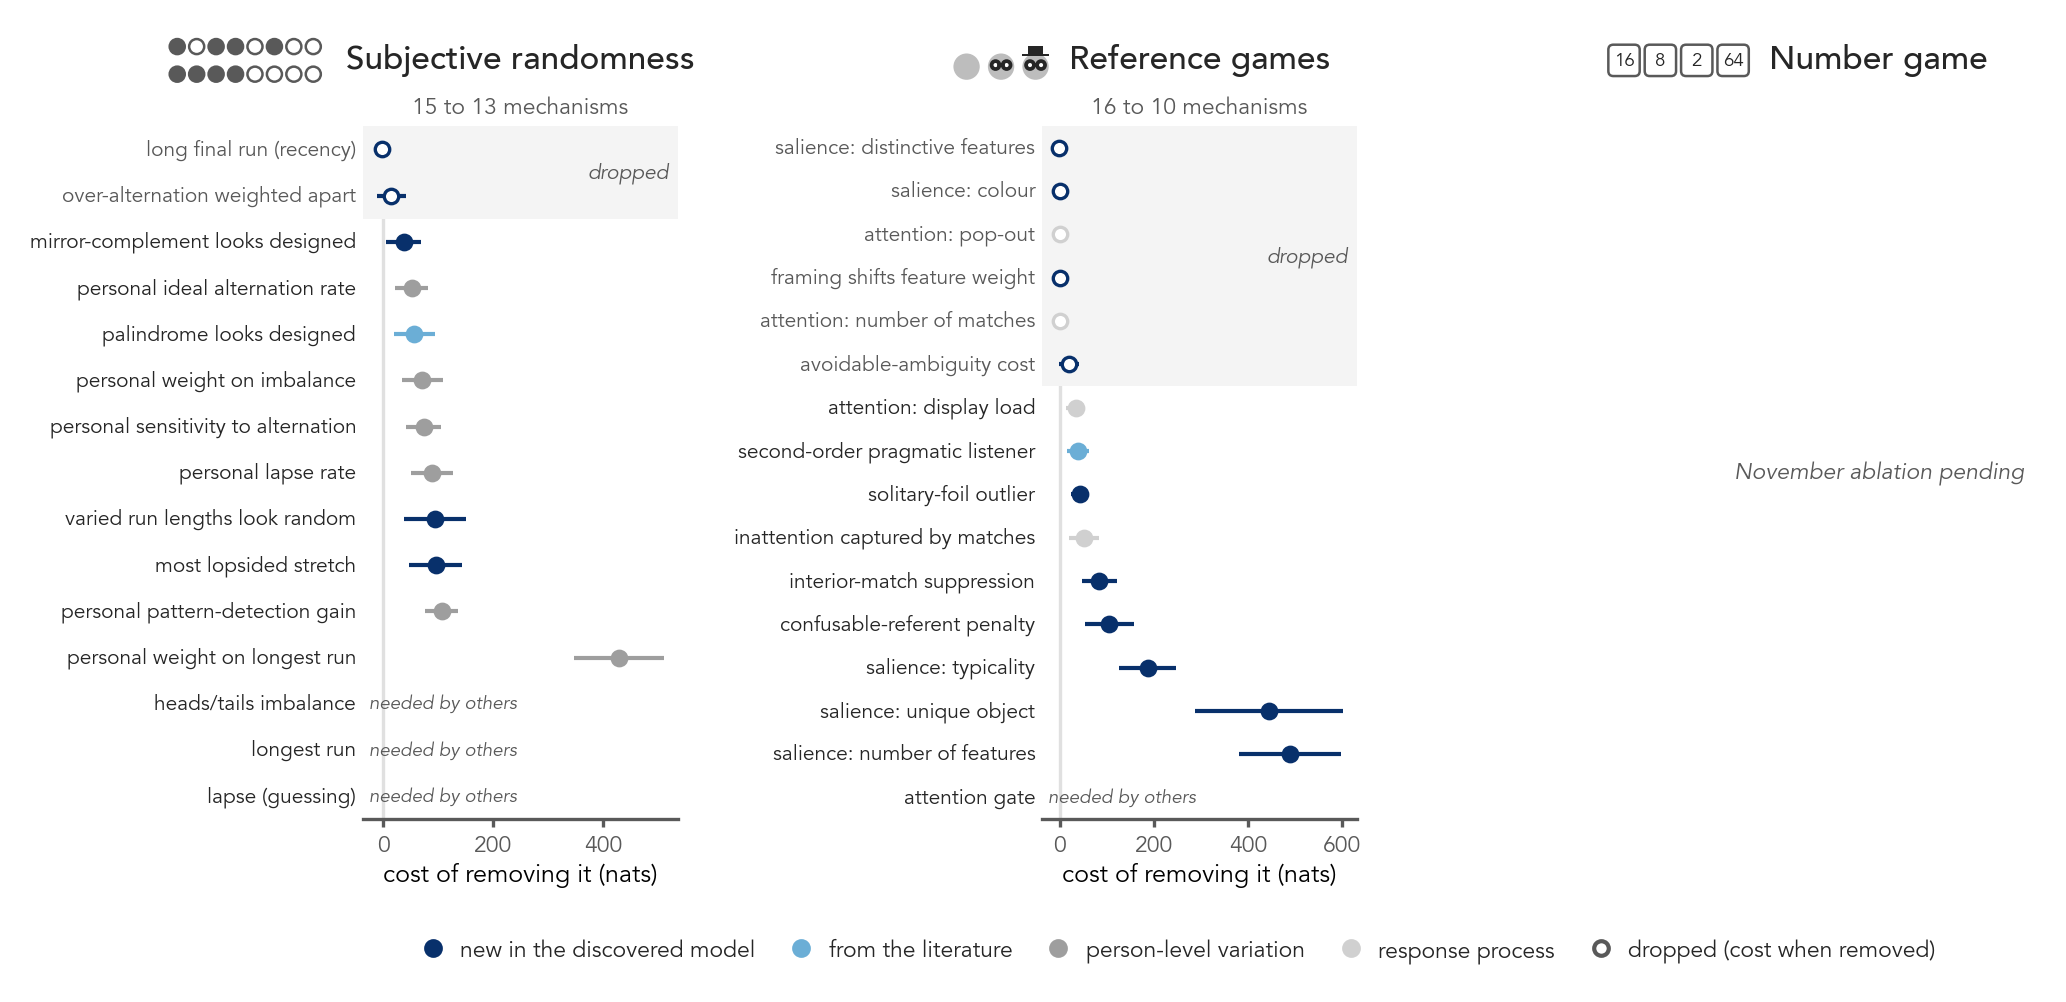
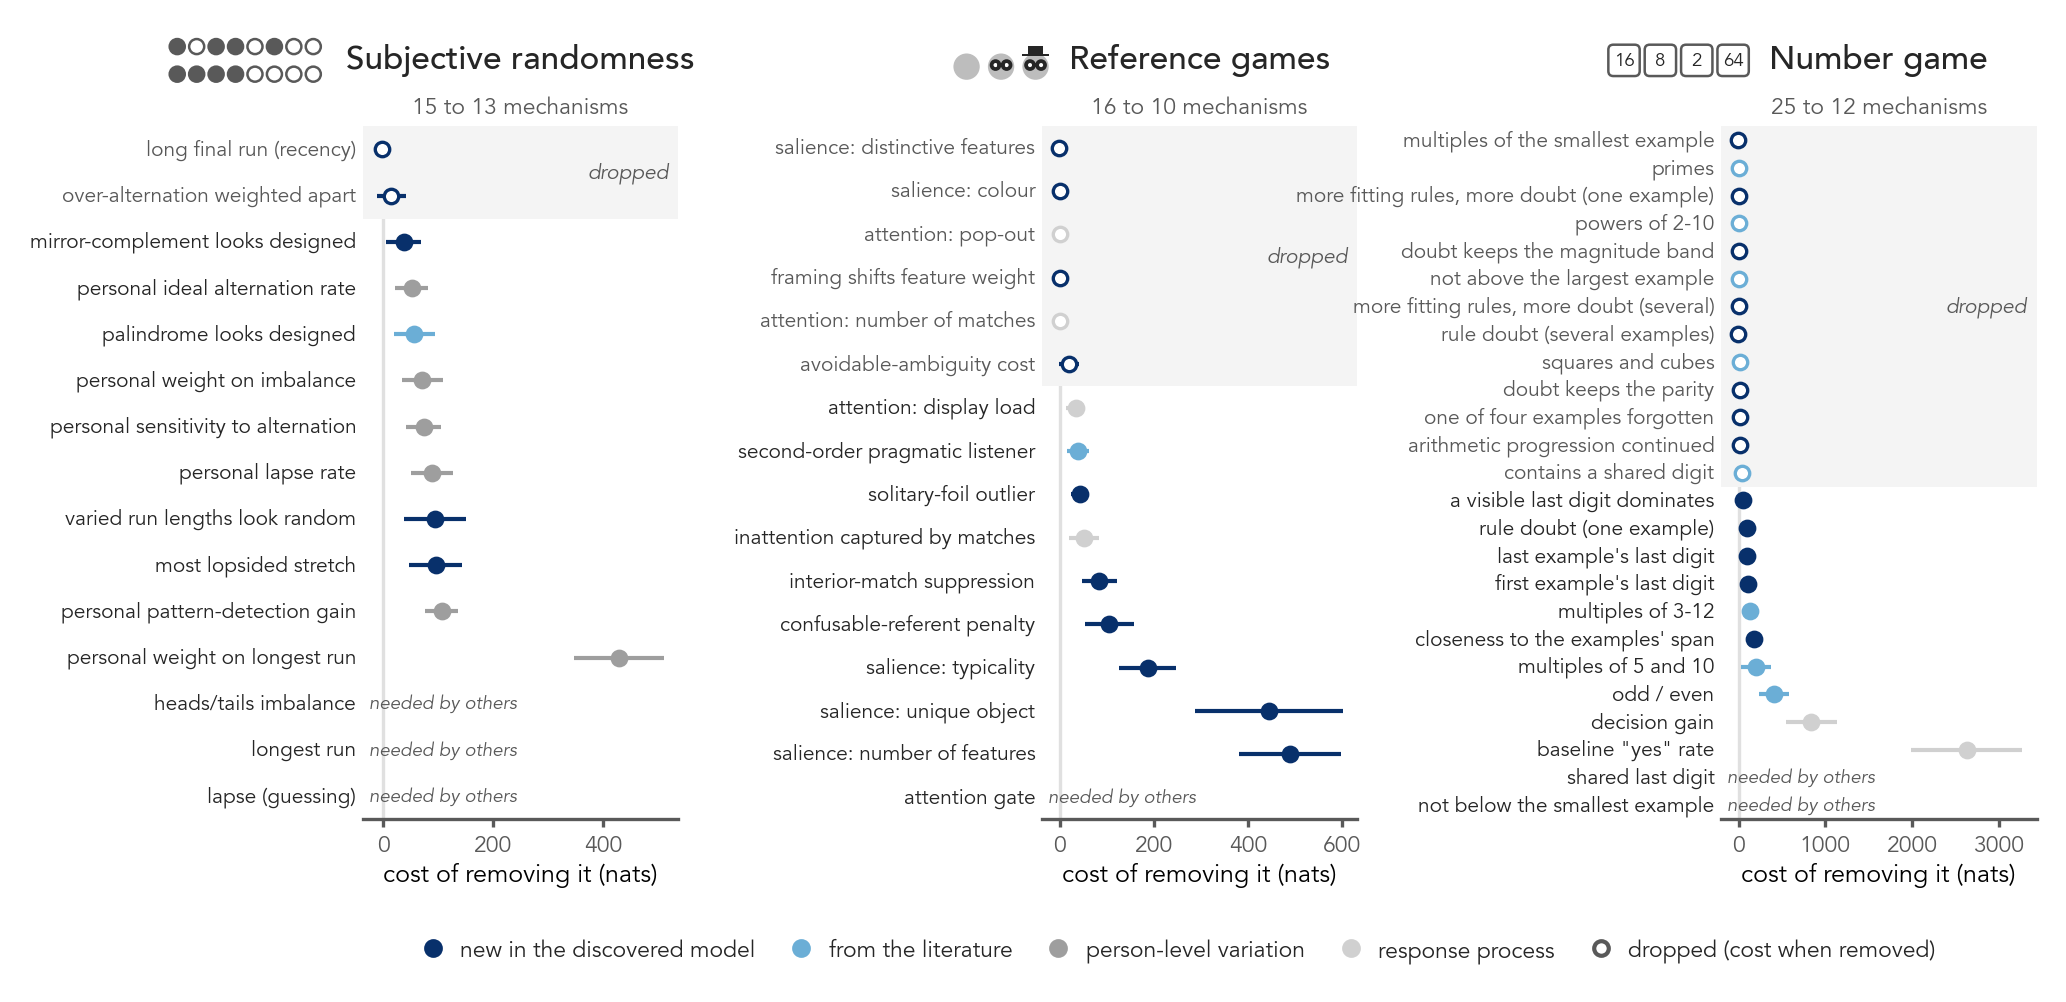
Figure 2 draft: number-game panel from the November sweep, scored on the unseen example sets
The draft loads number_game.json through figures.number_game_unseen_view (the final figure's
default test set; --ng-unseen-items for the other), reads the run histories from nov26, and
moves the panel's strip caption above the strip and its seed-line label off the winners' bars.
Figure 4 draft re-rendered with the number-game ablation panel.

diff --git a/data/paper/work/fig2_draft/fig2_draft.py b/data/paper/work/fig2_draft/fig2_draft.py
@@ -17,7 +17,7 @@ from matplotlib.lines import Line2D  # noqa: E402
 from matplotlib.ticker import FuncFormatter, MaxNLocator  # noqa: E402
 from pyprojroot import here  # noqa: E402
 
-from scripts.paper.figures import forest_rows, number_game_unseen_view  # noqa: E402
+from scripts.paper.figures import NG_TEST_SETS, forest_rows, number_game_unseen_view  # noqa: E402
 
 OUT = here() / "data" / "paper" / "work" / "fig2_draft"
 
@@ -60,15 +60,18 @@ TITLES = {"subjective_randomness": "Subjective randomness", "rsa": "Reference ga
 def subtitle(domain, data):
     return {"subjective_randomness": "LOO, all runs pooled · 23,104 trials",
             "rsa": "pre-registered held-out experiment · 14,404 trials",
-            "number_game": "held-out example sets · 15,090 responses"}[domain]
+            "number_game": f"{NG_TEST_SETS[NG_TEST_SET]} · {data['n_responses']:,} responses"}[domain]
 
 
 # --- data --------------------------------------------------------------------
 
 def load():
     fd = here() / "data" / "paper" / "figure_data"
-    # The number game's November figure data are not generated yet: its panel is drawn pending.
-    data = {d: json.loads((fd / f"{d}.json").read_text()) for d in TITLES if d != "number_game"}
+    data = {d: json.loads((fd / f"{d}.json").read_text()) for d in TITLES}
+    # The number game is scored on what no run drew (Figure 2's column; scripts/paper/figures.py).
+    unseen = json.loads((here() / "data/paper/number_game_unseen_items.json").read_text())
+    data["number_game"] = number_game_unseen_view(data["number_game"], unseen, NG_TEST_SET)
+    data["number_game"]["n_responses"] = unseen[NG_TEST_SET]["n_responses"]
     names = yaml.safe_load((here() / "scripts/paper/model_names.yaml").read_text())
     papers = yaml.safe_load((here() / "scripts/paper/seed_papers.yaml").read_text())
     return data, names, papers
@@ -101,8 +104,7 @@ def rsa_vs_textbook(rows, data):
 
 
 HISTORY = {"subjective_randomness": "data/results/human_experiment_sr-oct26/collected/{run}/subjective_randomness",
-           # The committed number-game figure data are the October sweep's (not yet regenerated from November).
-           "number_game": "data/results/number_game_dataset-oct26/collected/{run}/number_game",
+           "number_game": "data/results/number_game_dataset-nov26/collected/{run}/number_game",
            "rsa": "data/rsa/live/live_rsa_{run}/outputs"}
 
 
@@ -154,8 +156,10 @@ def incumbent_paths(domain, data):
 # --- drawing -----------------------------------------------------------------
 
 BY_RUN = False
+NG_TEST_SET = "unseen_example_sets"  # or "unseen_items" (--ng-unseen-items)
 RUN_COLORS = ["#08306b", "#2171b5", "#6baed6"]  # a panel's runs by their best model, best (darkest) first
 WIDTH = {"winner": 1.0, "seed": 1.0, "nonwinning": 2.6, "promoted": 1.8}
+CAPTION_ABOVE = {"number_game"}  # its strip reaches the zero line, its winners cross it: captions moved
 STRIP_LABEL = {"nonwinning": "search history", "promoted": "promoted\nseeds"}
 
 
@@ -238,8 +242,13 @@ def draw_panel(ax, domain, rows):
     widths = np.asarray([WIDTH[c["kind"]] for c in cols])
     xs = np.cumsum(widths) - widths / 2
     ax.axhline(0, color=COLOR_SEED, lw=0.8, ls=(0, (3, 2)), zorder=0)
-    ax.annotate("best seed model", (1, 0), xycoords=("axes fraction", "data"), xytext=(0, -1.5),
-                textcoords="offset points", ha="right", va="top", fontsize=CAPTION_PT, color=SEED_LABEL)
+    if domain in CAPTION_ABOVE:  # the winners' bars cross the line at the right edge: end it at the strip's
+        strip_end = next(x + 0.425 * w for x, w, c in zip(xs, widths, cols) if c["kind"] == "nonwinning")
+        ax.annotate("best seed\nmodel", (strip_end, 0), xytext=(0, -1.5), textcoords="offset points",
+                    ha="right", va="top", fontsize=CAPTION_PT, color=SEED_LABEL, linespacing=1.0)
+    else:
+        ax.annotate("best seed model", (1, 0), xycoords=("axes fraction", "data"), xytext=(0, -1.5),
+                    textcoords="offset points", ha="right", va="top", fontsize=CAPTION_PT, color=SEED_LABEL)
     promoted = [c for c in cols if c["kind"] == "promoted"]
     if promoted:  # the best promoted seed: the pre-registered bar
         bar = max(promoted[0]["values"])
@@ -266,6 +275,10 @@ def draw_panel(ax, domain, rows):
                     px, py = zip(*c["paths"][k])  # the loop's own choice at each step, at its test value
                     ax.step(x + (np.asarray(px) - 0.5) * 0.85 * w, py, where="post", color=RUN_COLORS[k],
                             lw=1.1, zorder=2.5 + 0.1 * layer)
+            if domain in CAPTION_ABOVE and c["kind"] == "nonwinning":
+                ax.annotate(STRIP_LABEL[c["kind"]], (x, vals.max()), xytext=(0, 4), textcoords="offset points",
+                            ha="center", va="bottom", fontsize=CAPTION_PT, color=INK_2, style="italic")
+                continue
             CAPTIONS.setdefault(ax, []).append(ax.annotate(STRIP_LABEL[c["kind"]], (x, vals.min()),
                         xytext=(0, -4), textcoords="offset points", ha="center", va="top",
                         fontsize=CAPTION_PT, color=INK_2, style="italic", linespacing=1.0))
@@ -337,4 +350,5 @@ def main():
 if __name__ == "__main__":
     import sys
     BY_RUN = "--by-run" in sys.argv
+    NG_TEST_SET = "unseen_items" if "--ng-unseen-items" in sys.argv else NG_TEST_SET
     main()
